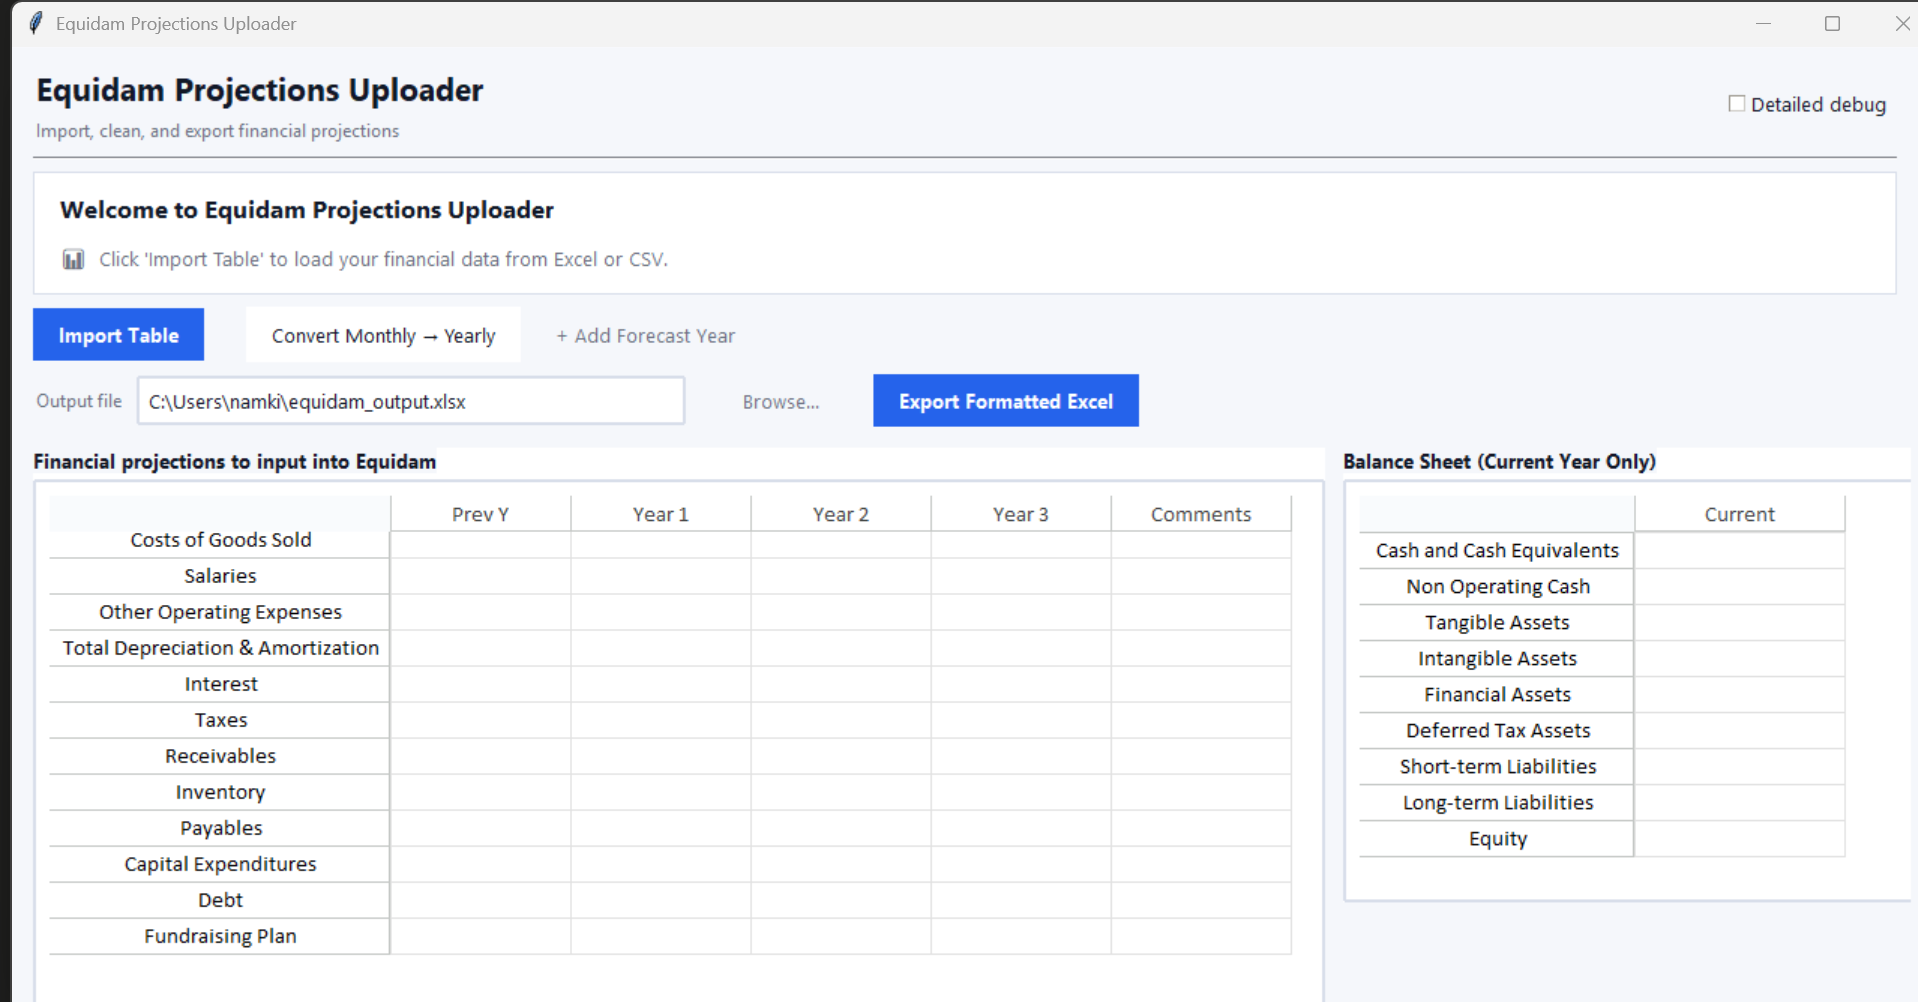
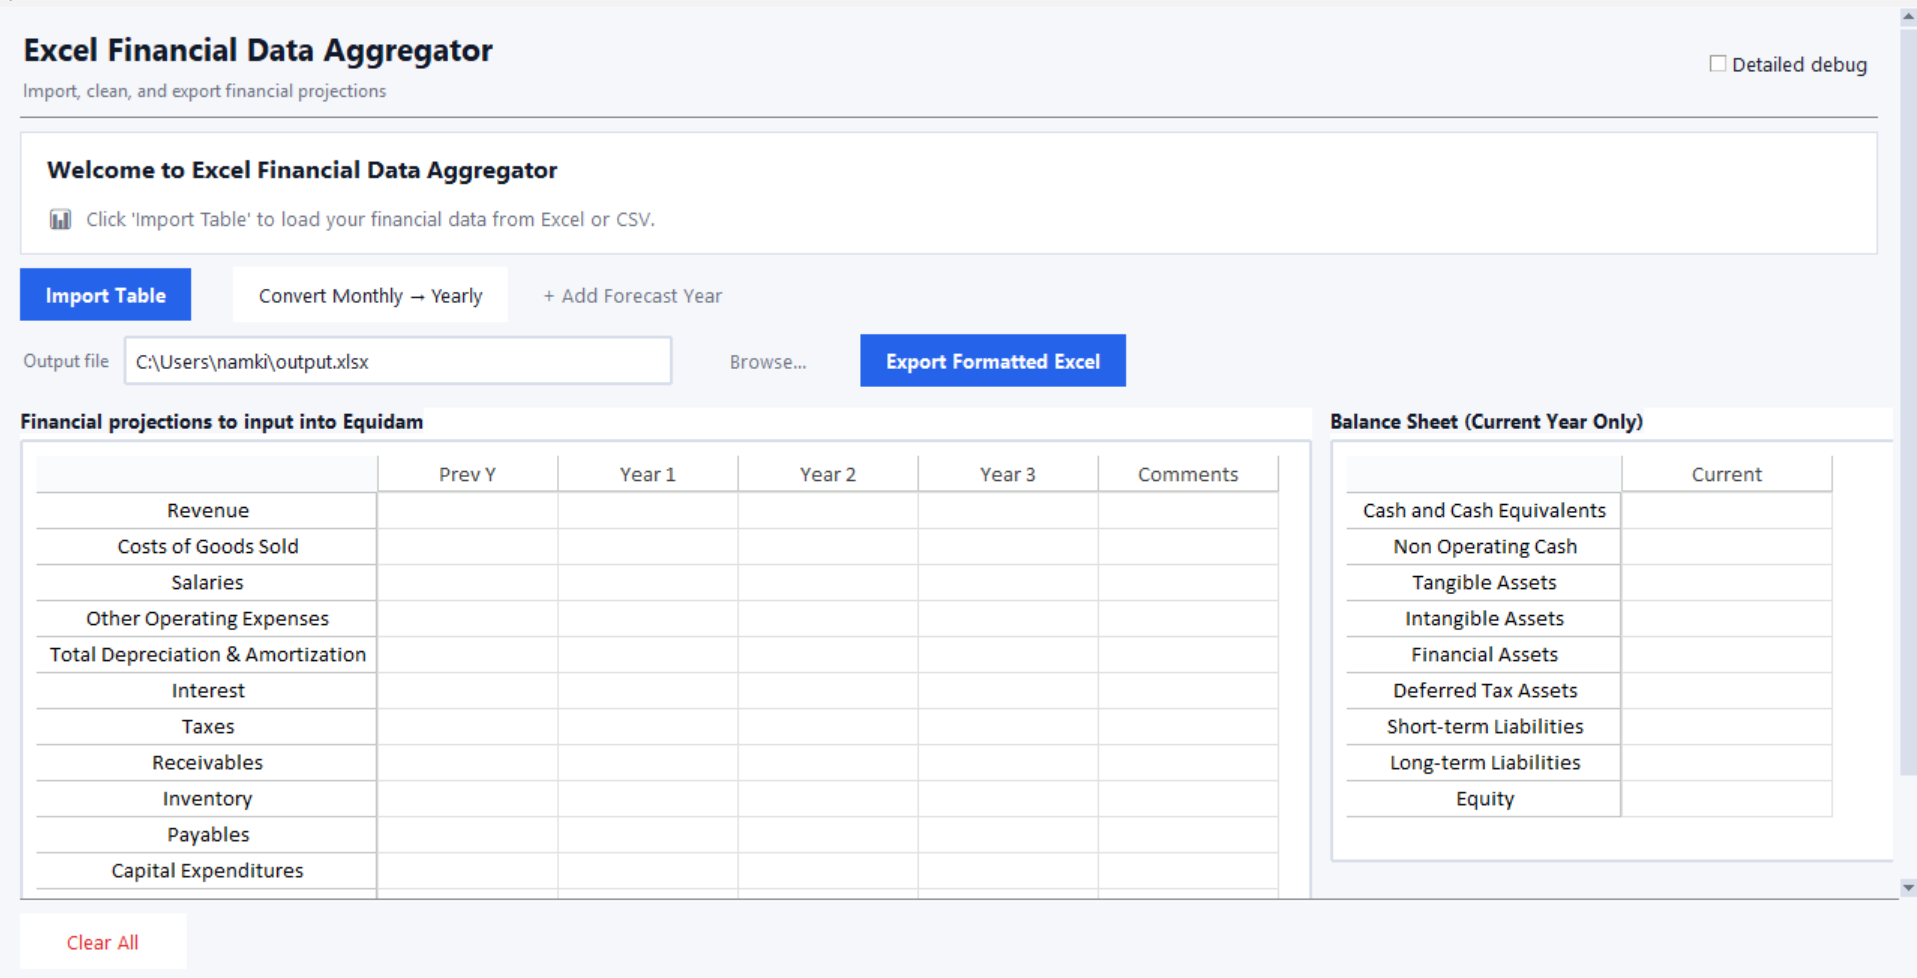
Update app

diff --git a/gui/app.py b/gui/app.py
@@ -30,7 +30,7 @@ class EquidamApp(tk.Tk):
     def __init__(self):
         super().__init__()
 
-        self.title("Excel Financial Data Aggregator")
+        self.title("Financial Data Aggregator")
         self.geometry("1440x780")
         self.minsize(1100, 640)
 
@@ -96,7 +96,7 @@ class EquidamApp(tk.Tk):
 
         ttk.Label(
             title_block,
-            text="Excel Financial Data Aggregator",
+            text="Financial Data Aggregator",
             style="H1.TLabel",
         ).pack(anchor="w")
 

diff --git a/gui/info_panel.py b/gui/info_panel.py
@@ -75,7 +75,7 @@ class InfoPanel(ttk.Frame):
 
         self._label(
             self.content_frame,
-            "Welcome to Excel Financial Data Aggregator",
+            "Welcome to Financial Data Aggregator",
             color=COLORS["text"],
             font=FONTS["h2"],
             anchor="w", pady=(0, 6),
